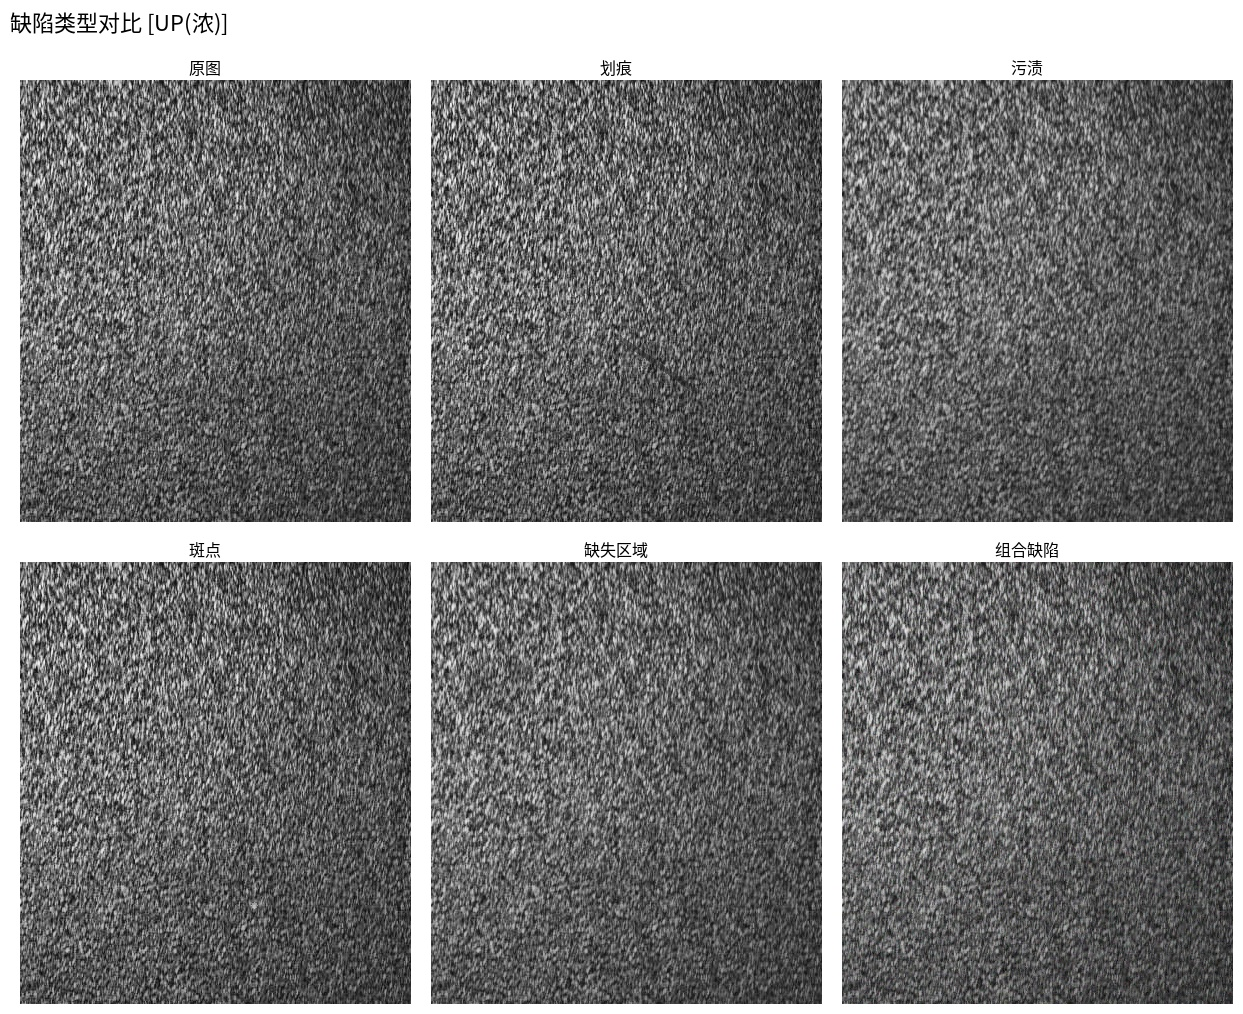
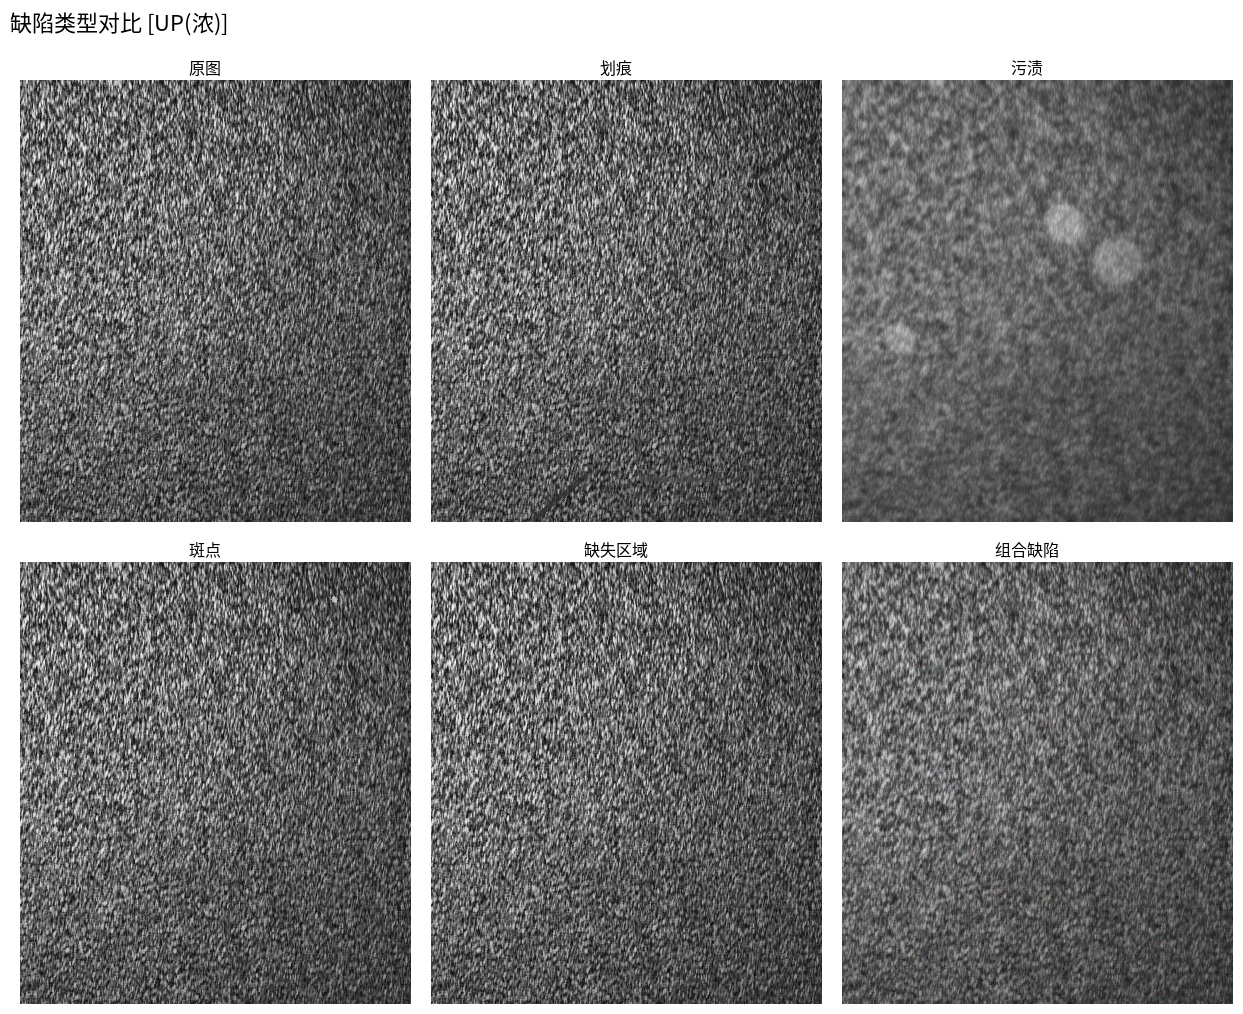
fix: UP再浓一档(透明度0.45-0.75)

Changed region(s): [[0.6726, 0.0611, 0.9783, 0.5197], [0.3974, 0.642, 0.428, 0.7032], [0.428, 0.4892, 0.4586, 0.5197]]

diff --git a/generate_synthetic_defects.py b/generate_synthetic_defects.py
@@ -227,12 +227,12 @@ def generate_defect(img,
     elif intensity == 'medium':
         # 使用函数默认参数（已调至适中）
         params = {}
-    else:  # heavy — UP视图用
+    else:  # heavy — UP视图用（较浓）
         params = {
-            'scratch': {'max_scratches': 2, 'min_width': 1, 'max_width': 3, 'min_opacity': 0.35, 'max_opacity': 0.6},
-            'stains': {'max_stains': 3, 'min_size': 10, 'max_size': 40, 'min_opacity': 0.25, 'max_opacity': 0.45},
-            'spots': {'max_spots': 10, 'spot_size': 3, 'opacity_range': (0.3, 0.55)},
-            'missing': {'max_regions': 1, 'min_ratio': 0.05, 'max_ratio': 0.15},
+            'scratch': {'max_scratches': 3, 'min_width': 2, 'max_width': 4, 'min_opacity': 0.45, 'max_opacity': 0.75},
+            'stains': {'max_stains': 3, 'min_size': 12, 'max_size': 50, 'min_opacity': 0.35, 'max_opacity': 0.55},
+            'spots': {'max_spots': 12, 'spot_size': 3, 'opacity_range': (0.4, 0.65)},
+            'missing': {'max_regions': 2, 'min_ratio': 0.05, 'max_ratio': 0.18},
         }
     
     result = img.copy()

diff --git a/生成实验数据/generate_synthetic_defects.py b/生成实验数据/generate_synthetic_defects.py
@@ -227,12 +227,12 @@ def generate_defect(img,
     elif intensity == 'medium':
         # 使用函数默认参数（已调至适中）
         params = {}
-    else:  # heavy — UP视图用
+    else:  # heavy — UP视图用（较浓）
         params = {
-            'scratch': {'max_scratches': 2, 'min_width': 1, 'max_width': 3, 'min_opacity': 0.35, 'max_opacity': 0.6},
-            'stains': {'max_stains': 3, 'min_size': 10, 'max_size': 40, 'min_opacity': 0.25, 'max_opacity': 0.45},
-            'spots': {'max_spots': 10, 'spot_size': 3, 'opacity_range': (0.3, 0.55)},
-            'missing': {'max_regions': 1, 'min_ratio': 0.05, 'max_ratio': 0.15},
+            'scratch': {'max_scratches': 3, 'min_width': 2, 'max_width': 4, 'min_opacity': 0.45, 'max_opacity': 0.75},
+            'stains': {'max_stains': 3, 'min_size': 12, 'max_size': 50, 'min_opacity': 0.35, 'max_opacity': 0.55},
+            'spots': {'max_spots': 12, 'spot_size': 3, 'opacity_range': (0.4, 0.65)},
+            'missing': {'max_regions': 2, 'min_ratio': 0.05, 'max_ratio': 0.18},
         }
     
     result = img.copy()

diff --git a/生成实验数据/gen_10_table.py b/生成实验数据/gen_10_table.py
@@ -29,10 +29,10 @@ font_label = get_font(16)
 DOWN_PARAMS = {}  # 用函数默认值（适中）
 
 UP_PARAMS = {
-    'scratch': {'max_scratches': 2, 'min_width': 1, 'max_width': 3, 'min_opacity': 0.35, 'max_opacity': 0.6},
-    'stains': {'max_stains': 3, 'min_size': 10, 'max_size': 40, 'min_opacity': 0.25, 'max_opacity': 0.45},
-    'spots': {'max_spots': 10, 'spot_size': 3, 'opacity_range': (0.3, 0.55)},
-    'missing': {'max_regions': 1, 'min_ratio': 0.05, 'max_ratio': 0.15},
+    'scratch': {'max_scratches': 3, 'min_width': 2, 'max_width': 4, 'min_opacity': 0.45, 'max_opacity': 0.75},
+    'stains': {'max_stains': 3, 'min_size': 12, 'max_size': 50, 'min_opacity': 0.35, 'max_opacity': 0.55},
+    'spots': {'max_spots': 12, 'spot_size': 3, 'opacity_range': (0.4, 0.65)},
+    'missing': {'max_regions': 2, 'min_ratio': 0.05, 'max_ratio': 0.18},
 }
 
 def make_defect_table(img_bgr, output_path, is_up=False):
